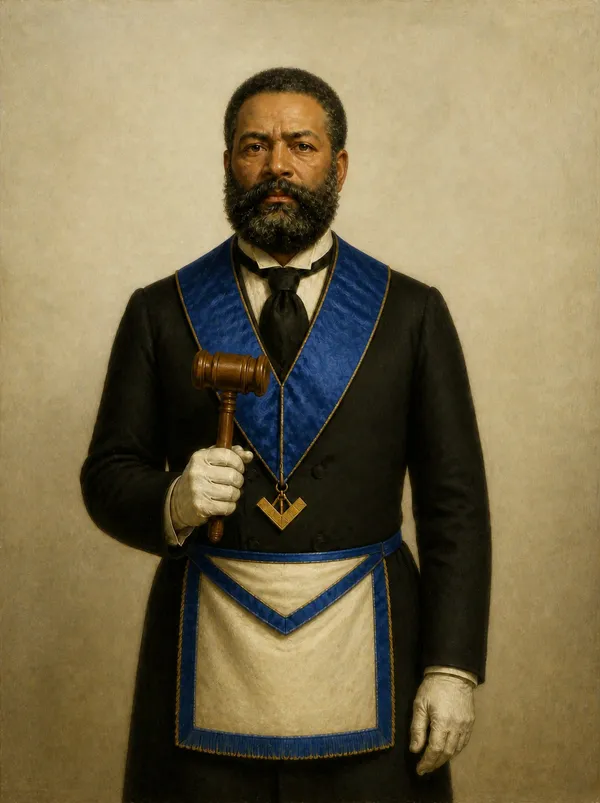
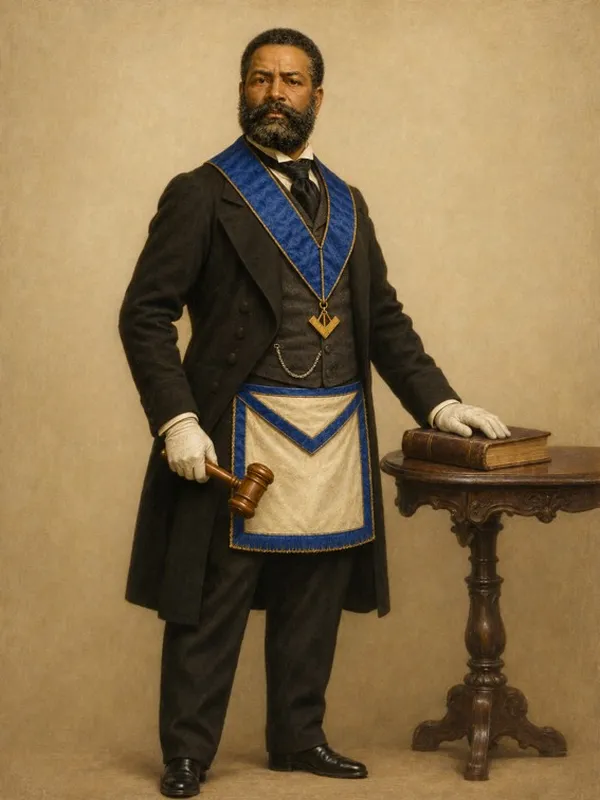
Veneráveis: cronologia sem sobreposição de mandatos, retratos da galeria, 4 Veneráveis fora da placa
- mandatos canônicos (atas prevalecem sobre a placa), com fonte e observação por mandato
- incluídos Jesuíno Antônio de Castro, 'Conde de Cavour', Arthur Gomes de Oliveira Campos e Acácio Garibaldi
- retratos com paramentos de Antonio Carlos, Brasiliense, Gama, Américo de Campos, Nacarato e Pedro Alexandrino

Claude-Session: https://claude.ai/code/session_01WXfhRY13VUYA78zPZuGUS4

diff --git a/site/index.html b/site/index.html
@@ -162,6 +162,7 @@ td.n{font-variant-numeric:tabular-nums;white-space:nowrap}
 .vmono{font-family:'Cormorant Garamond',serif;font-weight:600;font-size:28px;color:var(--gold)}
 .vtx{display:flex;flex-direction:column;gap:2px;min-width:0}.vord{font-size:.72em;letter-spacing:.08em;text-transform:uppercase;color:var(--gold)}
 .vper{font-size:.85em;color:var(--muted);font-variant-numeric:tabular-nums}.vdest{font-size:.82em;color:var(--muted);line-height:1.35}
+.vmand{margin:0;padding-left:18px;display:flex;flex-direction:column;gap:6px}
 .vfigs{display:grid;grid-template-columns:repeat(auto-fit,minmax(200px,1fr));gap:12px;margin:12px 0}
 .vfig{margin:0}.vfig img{width:100%;max-height:420px;object-fit:contain;background:var(--sunk);border-radius:8px}.vfig figcaption{font-size:.78em;color:var(--muted);margin-top:4px}
 .box{background:var(--sunk);border-radius:var(--r);padding:12px 14px;margin:10px 0}
@@ -315,7 +316,7 @@ let LANG='pt', TR={marcos:{},eras:{},eventos:{}};
 const UI={
 pt:{logoAlt:'Selo da Aug∴ Resp∴ Ben∴ Gr∴ Benf∴ Cent∴ Loj∴ América',eyebrow:'Loja Maçônica América nº 189 · São Paulo',h1:'A história da Loja América, <em>sessão por sessão</em>',
 heroLead:'De 1868 aos dias de hoje: as atas da Loja lado a lado com a história do Brasil e do mundo. Escolha uma década, abra um ano e leia cada ata no manuscrito original e na transcrição fiel.',
-kiosk:'Modo totem',navAria:'Seções',navLinha:'Linha do tempo',navAtas:'Atas',navAdm:'Administração',navVen:'Veneráveis',venLead:'Os Veneráveis Mestres que presidiram a Loja desde 1868, na ordem da galeria. Toque num nome para ler a mini-biografia, com as gestões e o que as atas registram de cada um.',venPh:'Buscar Venerável ou ano',venavel:'Venerável',retratoDe:'Retrato de',fotoHist:'Fotografia histórica',retratoIA:'Retrato recriado com paramentos maçônicos (recriação artística com IA a partir de retrato de arquivo; paramentos estimados para a época)',semFotoVen:'Retrato ainda não incluído.',gestoes:'Gestões',venAtas:'atas o mencionam no índice',destaques:'Destaques',fontes:'Fontes',venAnt:'Venerável anterior',venProx:'Próximo Venerável',navMem:'Membros',navSedes:'Sedes',navAlem:'Além das atas',
+kiosk:'Modo totem',navAria:'Seções',navLinha:'Linha do tempo',navAtas:'Atas',navAdm:'Administração',navVen:'Veneráveis',foraPlaca:'não consta da placa da galeria',base_atas:'segundo as atas',base_placa:'segundo a placa da galeria',base_presena:'segundo o Livro de Presença',base_atasplaca:'segundo as atas e a placa',base_sitedaloja:'segundo o site da Loja',venLead:'Os Veneráveis Mestres que presidiram a Loja desde 1868, na ordem da galeria. Toque num nome para ler a mini-biografia, com as gestões e o que as atas registram de cada um.',venPh:'Buscar Venerável ou ano',venavel:'Venerável',retratoDe:'Retrato de',fotoHist:'Fotografia histórica',retratoIA:'Retrato recriado com paramentos maçônicos (recriação artística com IA a partir de retrato de arquivo; paramentos estimados para a época)',semFotoVen:'Retrato ainda não incluído.',gestoes:'Mandatos',venAtas:'atas o mencionam no índice',destaques:'Destaques',fontes:'Fontes',venAnt:'Venerável anterior',venProx:'Próximo Venerável',navMem:'Membros',navSedes:'Sedes',navAlem:'Além das atas',
 loading:'Carregando o acervo…',footer1:'Loja Maçônica América 189 · Rua Apeninos, 515 · São Paulo, SP',footer2:'Rascunho do portal · conteúdo em revisão',
 stAtas:'atas catalogadas',stTx:'atas transcritas na íntegra',stVen:'Veneráveis na placa',stMem:'membros identificados',stSedes:'endereços',
 decadas:'Décadas',ataN:'ata',atasN:'atas',mostrar:'Mostrar:',soHist:'Só atas históricas',laneCtx:'Brasil e mundo',laneAno:'Ano',laneLoja:'Loja América',gap:'nada registrado no acervo nem na cronologia',
@@ -339,7 +340,7 @@ ataAnt:'Ata anterior',ataProx:'Próxima ata',verAno:'Ver {y} na linha do tempo',
 erroTx:'Não foi possível carregar a transcrição agora. Tente abrir a ata de novo.',erroBoot:'Não foi possível carregar o acervo. Recarregue a página.',sessao:'Sessão',langNote:'',idioma:'Idioma'},
 es:{logoAlt:'Sello de la Aug∴ Resp∴ Ben∴ Gr∴ Benf∴ Cent∴ Log∴ América',eyebrow:'Logia Masónica América nº 189 · São Paulo',h1:'La historia de la Logia América, <em>sesión por sesión</em>',
 heroLead:'Desde 1868 hasta hoy: las actas de la Logia junto a la historia de Brasil y del mundo. Elija una década, abra un año y lea cada acta en el manuscrito original y en la transcripción fiel.',
-kiosk:'Modo tótem',navAria:'Secciones',navLinha:'Línea de tiempo',navAtas:'Actas',navAdm:'Administración',navVen:'Venerables',venLead:'Los Venerables Maestros que presidieron la Logia desde 1868, en el orden de la galería. Toque un nombre para leer la minibiografía, con las gestiones y lo que las actas registran de cada uno.',venPh:'Buscar Venerable o año',venavel:'Venerable',retratoDe:'Retrato de',fotoHist:'Fotografía histórica',retratoIA:'Retrato recreado con insignias masónicas (recreación artística con IA a partir de un retrato de archivo; insignias estimadas para la época)',semFotoVen:'Retrato aún no incluido.',gestoes:'Gestiones',venAtas:'actas lo mencionan en el índice',destaques:'Destacados',fontes:'Fuentes',venAnt:'Venerable anterior',venProx:'Venerable siguiente',navMem:'Miembros',navSedes:'Sedes',navAlem:'Más allá de las actas',
+kiosk:'Modo tótem',navAria:'Secciones',navLinha:'Línea de tiempo',navAtas:'Actas',navAdm:'Administración',navVen:'Venerables',foraPlaca:'no figura en la placa de la galería',base_atas:'según las actas',base_placa:'según la placa de la galería',base_presena:'según el Libro de Asistencia',base_atasplaca:'según las actas y la placa',base_sitedaloja:'según el sitio de la Logia',venLead:'Los Venerables Maestros que presidieron la Logia desde 1868, en el orden de la galería. Toque un nombre para leer la minibiografía, con las gestiones y lo que las actas registran de cada uno.',venPh:'Buscar Venerable o año',venavel:'Venerable',retratoDe:'Retrato de',fotoHist:'Fotografía histórica',retratoIA:'Retrato recreado con insignias masónicas (recreación artística con IA a partir de un retrato de archivo; insignias estimadas para la época)',semFotoVen:'Retrato aún no incluido.',gestoes:'Mandatos',venAtas:'actas lo mencionan en el índice',destaques:'Destacados',fontes:'Fuentes',venAnt:'Venerable anterior',venProx:'Venerable siguiente',navMem:'Miembros',navSedes:'Sedes',navAlem:'Más allá de las actas',
 loading:'Cargando el acervo…',footer1:'Logia Masónica América 189 · Rua Apeninos, 515 · São Paulo, Brasil',footer2:'Borrador del portal · contenido en revisión',
 stAtas:'actas catalogadas',stTx:'actas transcritas íntegramente',stVen:'Venerables en la placa',stMem:'miembros identificados',stSedes:'direcciones',
 decadas:'Décadas',ataN:'acta',atasN:'actas',mostrar:'Mostrar:',soHist:'Solo actas históricas',laneCtx:'Brasil y el mundo',laneAno:'Año',laneLoja:'Logia América',gap:'nada registrado en el acervo ni en la cronología',
@@ -364,7 +365,7 @@ erroTx:'No fue posible cargar la transcripción ahora. Intente abrir el acta de 
 langNote:'Los resúmenes del índice y las transcripciones de las actas se muestran en el portugués original. Los textos de la línea de tiempo, el contexto histórico y “Más allá de las actas” están traducidos.',idioma:'Idioma'},
 en:{logoAlt:'Seal of the Aug∴ Resp∴ Ben∴ Gr∴ Benf∴ Cent∴ América Lodge',eyebrow:'América Masonic Lodge No. 189 · São Paulo, Brazil',h1:'The history of América Lodge, <em>session by session</em>',
 heroLead:'From 1868 to the present: the Lodge’s minutes side by side with the history of Brazil and the world. Pick a decade, open a year and read each set of minutes in the original manuscript and in a faithful transcription.',
-kiosk:'Kiosk mode',navAria:'Sections',navLinha:'Timeline',navAtas:'Minutes',navAdm:'Officers',navVen:'Worshipful Masters',venLead:'The Worshipful Masters who have presided over the Lodge since 1868, in the order of the portrait gallery. Tap a name to read a short biography with the terms served and what the minutes record.',venPh:'Search a Master or year',venavel:'Worshipful Master',retratoDe:'Portrait of',fotoHist:'Historical photograph',retratoIA:'Portrait recreated in Masonic regalia (AI artistic recreation from an archival portrait; regalia estimated for the period)',semFotoVen:'Portrait not yet included.',gestoes:'Terms',venAtas:'minutes mention him in the index',destaques:'Highlights',fontes:'Sources',venAnt:'Previous Master',venProx:'Next Master',navMem:'Members',navSedes:'Meeting places',navAlem:'Beyond the minutes',
+kiosk:'Kiosk mode',navAria:'Sections',navLinha:'Timeline',navAtas:'Minutes',navAdm:'Officers',navVen:'Worshipful Masters',foraPlaca:'not on the gallery plaque',base_atas:'per the minutes',base_placa:'per the gallery plaque',base_presena:'per the attendance book',base_atasplaca:'per the minutes and plaque',base_sitedaloja:'per the Lodge website',venLead:'The Worshipful Masters who have presided over the Lodge since 1868, in the order of the portrait gallery. Tap a name to read a short biography with the terms served and what the minutes record.',venPh:'Search a Master or year',venavel:'Worshipful Master',retratoDe:'Portrait of',fotoHist:'Historical photograph',retratoIA:'Portrait recreated in Masonic regalia (AI artistic recreation from an archival portrait; regalia estimated for the period)',semFotoVen:'Portrait not yet included.',gestoes:'Terms',venAtas:'minutes mention him in the index',destaques:'Highlights',fontes:'Sources',venAnt:'Previous Master',venProx:'Next Master',navMem:'Members',navSedes:'Meeting places',navAlem:'Beyond the minutes',
 loading:'Loading the archive…',footer1:'América Masonic Lodge 189 · Rua Apeninos, 515 · São Paulo, Brazil',footer2:'Portal draft · content under review',
 stAtas:'minutes catalogued',stTx:'minutes fully transcribed',stVen:'Worshipful Masters on the plaque',stMem:'members identified',stSedes:'addresses',
 decadas:'Decades',ataN:'record',atasN:'records',mostrar:'Show:',soHist:'Historic minutes only',laneCtx:'Brazil and the world',laneAno:'Year',laneLoja:'América Lodge',gap:'nothing recorded in the archive or the chronology',
@@ -617,7 +618,7 @@ function viewAlem(){
 }
 
 /* ---------- Veneráveis ---------- */
-function venInit(n){return n.split(/\s+/).filter(w=>w.length>2&&!/^(de|da|do|dos|das)$/i.test(w)).slice(0,2).map(w=>w[0]).join('')}
+function venInit(n){return n.replace(/["“”]/g,'').split(/\s+/).filter(w=>w.length>2&&!/^(de|da|do|dos|das)$/i.test(w)).slice(0,2).map(w=>w[0]).join('')}
 function venFace(v,big){
   const f=v.retrato||v.foto;
   return f?`<img src="${esc(f)}" alt="${t('retratoDe')} ${esc(v.nome)}" loading="lazy" decoding="async">`:`<span class="vmono" aria-hidden="true">${esc(venInit(v.nome))}</span>`;
@@ -630,7 +631,7 @@ function viewVen(){
 }
 function bindVen(){
   if(!S.ven)return;const run=()=>{const q=norm($('#vq').value.trim());
-    $('#vres').innerHTML=S.ven.map((v,i)=>[v,i]).filter(([v])=>!q||norm(v.nome+' '+(v.nome_completo||'')+' '+v.gestoes.join(' ')).includes(q)).map(([v,i])=>`<button class="vcard" data-ven="${i}"><span class="vface">${venFace(v)}</span><span class="vtx"><span class="vord">${v.ordem}º ${t('venavel')}</span><b>${esc(v.nome)}</b><span class="vper">${esc(v.periodo)}</span>${(v.destaques||[]).slice(0,1).map(d=>`<span class="vdest">${esc(d)}</span>`).join('')}</span></button>`).join('');};
+    $('#vres').innerHTML=S.ven.map((v,i)=>[v,i]).filter(([v])=>!q||norm(v.nome+' '+(v.nome_completo||'')+' '+v.gestoes.join(' ')).includes(q)).map(([v,i])=>`<button class="vcard" data-ven="${i}"><span class="vface">${venFace(v)}</span><span class="vtx"><span class="vord">${v.ordem}º ${t('venavel')}</span><b>${esc(v.nome)}</b><span class="vper">${esc(v.periodo)}</span>${v.placa===false?`<span class="vdest"><i>${t('foraPlaca')}</i></span>`:''}${(v.destaques||[]).slice(0,1).map(d=>`<span class="vdest">${esc(d)}</span>`).join('')}</span></button>`).join('');};
   $('#vq').addEventListener('input',run);run();
 }
 function openVen(i){
@@ -640,7 +641,7 @@ function openVen(i){
   R.innerHTML=`<div class="sheet" role="dialog" aria-modal="true" aria-label="${esc(v.nome)}"><header><div><div class="eyebrow" style="color:var(--gold)">${v.ordem}º ${t('venavel')} · ${esc(v.periodo)}</div><h2>${esc(v.nome)}</h2>${v.nome_completo&&v.nome_completo!==v.nome?`<div style="color:var(--muted);margin-top:4px">${esc(v.nome_completo)}</div>`:''}</div><button class="close" aria-label="${t('fechar')}">✕</button></header>
   ${langNote()}
   ${v.retrato||v.foto?`<div class="vfigs">${v.foto?fig(v.foto,v.foto_leg||t('fotoHist')):''}${v.retrato?fig(v.retrato,t('retratoIA')):''}</div>`:`<p class="pg-note">${t('semFotoVen')}</p>`}
-  <dl class="kv"><dt>${t('gestoes')}</dt><dd>${v.gestoes.map(g=>`<a class="lk" href="#ano-${String(g).slice(0,4)}">${esc(g)}</a>`).join(' ')}</dd>${v.natas?`<dt>${t('navAtas')}</dt><dd>${v.natas} ${t('venAtas')}</dd>`:''}</dl>
+  <div class="box"><h4>${t('gestoes')}</h4><ul class="vmand">${(v.mandatos||[]).map(m=>`<li><a class="lk" href="#ano-${(m.p.match(/\d{4}/)||[''])[0]}">${esc(m.p)}</a> <small style="color:var(--muted)">(${esc(t('base_'+m.b.toLowerCase().replace(/[^a-z]/g,''))||m.b)})</small>${m.n?`<br><span style="color:var(--muted);font-size:.9em">${esc(m.n)}</span>`:''}</li>`).join('')}</ul></div>
   ${(v.bio||[]).map(p=>`<p>${esc(p)}</p>`).join('')}
   ${(v.destaques||[]).length?`<div class="box"><h4>${t('destaques')}</h4><ul>${v.destaques.map(d=>`<li>${esc(d)}</li>`).join('')}</ul></div>`:''}
   ${(v.fontes||[]).length?`<p class="pg-note"><b>${t('fontes')}:</b> ${v.fontes.map(f=>/^https?:/.test(f)?`<a href="${esc(f)}" target="_blank" rel="noopener">${esc(f.replace(/^https?:\/\/(www\.)?/,'').split('/')[0])}</a>`:esc(f)).join(' · ')}</p>`:''}
